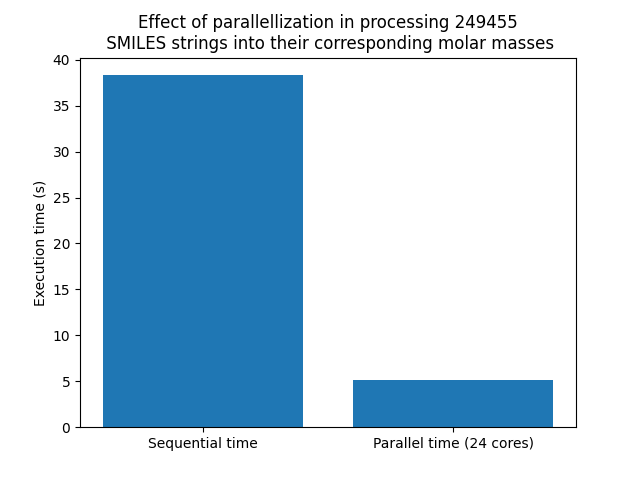
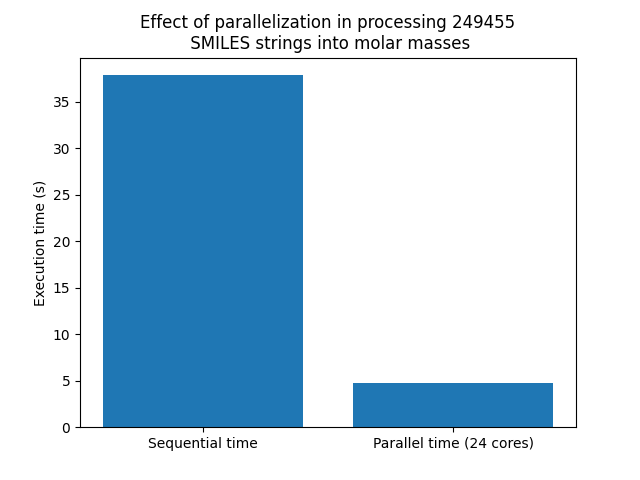
Updated figure

diff --git a/scaling.py b/scaling.py
@@ -70,5 +70,5 @@ if __name__ == "__main__":
     # Bar chart
     plt.bar(['Sequential time',f'Parallel time ({n_cores} cores)'],[sequential_time,parallel_time],width=0.8)
     plt.ylabel('Execution time (s)')
-    plt.title(f'Effect of parallellization in processing {len(smiles_list)}\n SMILES strings into their corresponding molar masses')
+    plt.title(f'Effect of parallelization in processing {len(smiles_list)}\n SMILES strings into molar masses')
     plt.show()
